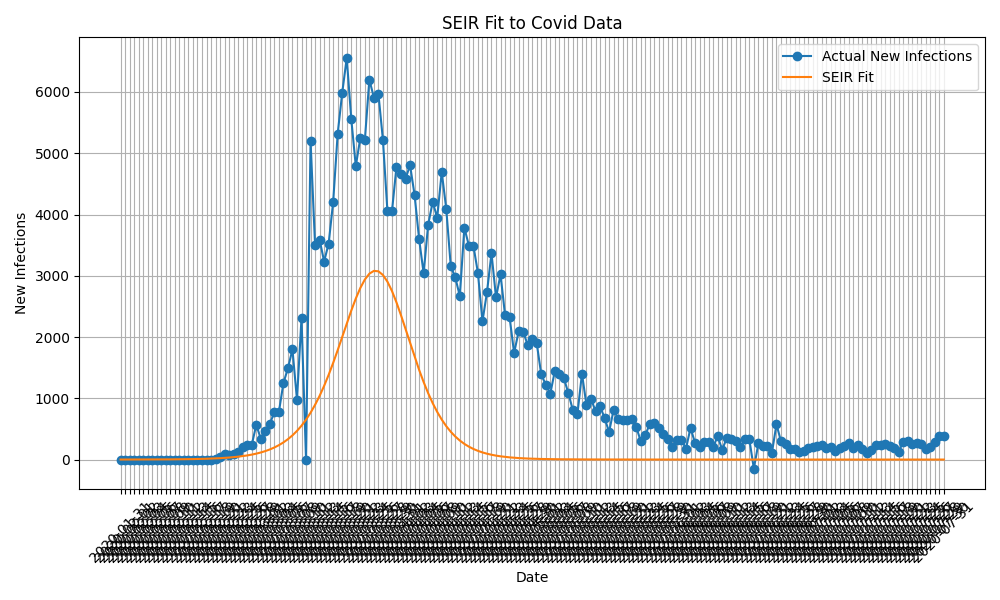
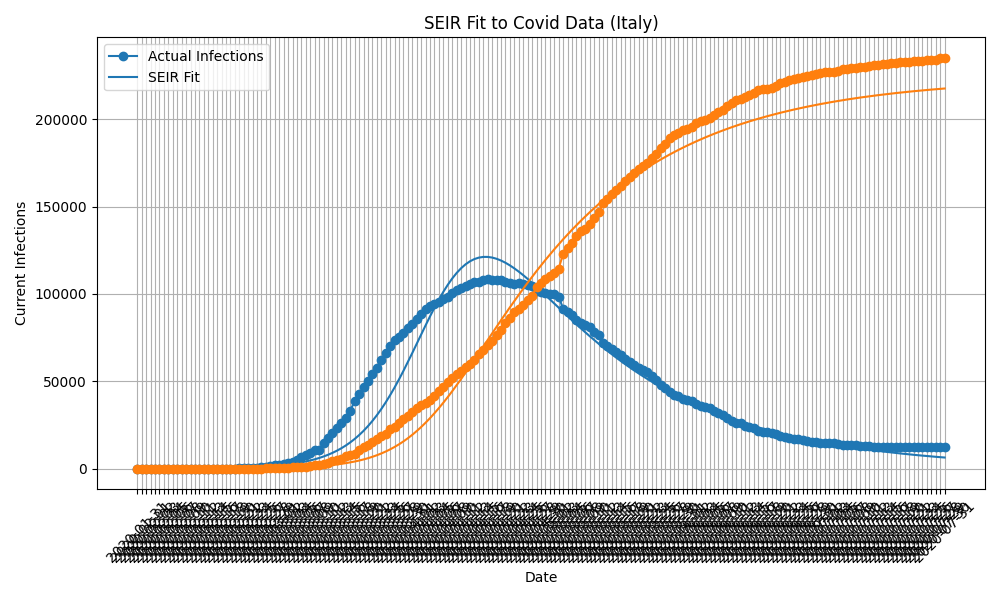
GOOD APPROXIMATION!!!!

diff --git a/seir_simulation.py b/seir_simulation.py
@@ -1,128 +1,78 @@
-from forward_euler import forward_euler_seir
 import numpy as np
-import matplotlib.pyplot as plt
+from forward_euler import forward_euler_seir
+from data.covid_data import import_covid_data, INFECTED_COL, TOTAL_RECOVERIES_COL, DATE_COL
 from scipy.optimize import minimize
+import matplotlib.pyplot as plt
+from forward_euler import evaluate_seir_parameters
 
-from data.influenza_data import import_influenza_data, NEW_INFECTIONS_COL, DATE_COL
+df = import_covid_data()
 
+# TODO: Find a good source for this
+sigma = 0.19
 
-def predicted_weekly_cases(beta, gamma, S_init, E_init, I_init, R_init, sigma, dt, duration_days, timescale, num_times):
-    S, E, I, R = forward_euler_seir(S_init, E_init, I_init, R_init,
-                                     beta, sigma, gamma, dt, duration_days)
-    # Everyone who has ever been infectious by time t is I(t) + R(t)
-    # weekly new infections = jump in (I + R) over each week
-    cumulative = I + R
-    weekly_cumulative = cumulative[::timescale][:num_times + 1]
-    return np.diff(weekly_cumulative)
+N = 60_000_000
+I_init = 0.0001 * N
+E_init = 0.0001 * N
+R_init = 0.0
+S_init = N - I_init - E_init - R_init
 
-call_count = 0
-def loss_function(params, S_init, E_init, I_init, R_init, sigma, dt, duration_days, 
-                  timescale, num_times, new_cases, peak_data, beta_bounds, gamma_bounds):
-    global call_count
-    call_count += 1
+initial_beta = 0.420
+initial_gamma = 0.08
+initial_scale = 0.001
 
-    beta, gamma = params
-    # Biological bounds for beta and gamma:
-    # beta in [0.1, 1.5]  (per-day infection rate)
-    # gamma in [0.14, 0.5]  (infectious period 2 - 7 days, according to the literature)
-    if not (beta_bounds[0] <= beta <= beta_bounds[1] and gamma_bounds[0] <= gamma <= gamma_bounds[1]):
-        return 1e6
-    predicted = predicted_weekly_cases(beta, gamma, S_init, E_init, I_init, R_init, 
-                                       sigma, dt, duration_days, timescale, num_times)
-    L = np.mean(((new_cases - predicted) / peak_data) ** 2)
-    print(f"  [call {call_count}] beta={beta:.4f}, gamma={gamma:.4f}, loss={L:.6f}", flush=True)
-    return L
+dt = 0.1
+duration = len(df)
+print(f"Duration = {duration}")
 
-
-def fit_seir_nelder_mead(df, date_col, observed_col, sigma, initial_guess, S_init, E_init, I_init, R_init, dt, time_scale_factor: int = 7,
-                      beta_bounds=(0.1, 1.5), gamma_bounds=(0.14, 0.5), output_path=None, title=None):
-    df = df.reset_index(drop=True)
-    new_cases_raw = df[observed_col].values
-    baseline = new_cases_raw[0]
-    new_cases = np.clip(new_cases_raw - baseline, 0, None)
-    num_times = len(new_cases)
+def loss_function(params: np.ndarray) -> float:
+    beta, gamma, scale = params
     
-    dt_val = dt
-    duration_days = num_times * time_scale_factor + 1
-    timescale = int(round(time_scale_factor / dt_val))
-    
-    peak_data = new_cases.max()
-    
-    initial_pred = predicted_weekly_cases(initial_guess[0], initial_guess[1], S_init, E_init, I_init, R_init,
-                                           sigma, dt_val, duration_days, timescale, num_times)
-    print(f"Loaded {num_times} rows of data. Baseline: {baseline:.0f}, max excess: {new_cases.max():.2f}", flush=True)
-    print(f"Initial model peak: {initial_pred.max():.0f} (data peak: {peak_data:.0f})", flush=True)
-    print(f"Initial loss at beta={initial_guess[0]}, gamma={initial_guess[1]}: {loss_function(initial_guess, S_init, E_init, I_init, R_init, sigma, dt_val, duration_days, timescale, num_times, new_cases, peak_data, beta_bounds, gamma_bounds):.6f}", flush=True)
-    
-    result = minimize(
-        lambda p: loss_function(p, S_init, E_init, I_init, R_init, sigma, dt_val, duration_days,
-                               timescale, num_times, new_cases, peak_data, beta_bounds, gamma_bounds),
-        x0=initial_guess,
-        method="Nelder-Mead",
-        options={"maxiter": 400, "xatol": 1e-4, "fatol": 1e-5, "disp": True}
+    S, E, I, R = forward_euler_seir(S_init, E_init, I_init, R_init, beta, sigma, gamma, dt, duration) * scale
+    rmse_infections = np.sqrt(np.mean((df[INFECTED_COL] - I[::int(1 / dt)]) ** 2))
+    rmse_recoveries = np.sqrt(np.mean((df[TOTAL_RECOVERIES_COL] - R[::int(1 / dt)]) ** 2))
+
+    loss = rmse_infections + rmse_recoveries
+    print(f"loss={loss:.4f}, beta={beta}, gamma={gamma}, scale={scale}")
+    return loss
+
+# The optimization result represented as a OptimizeResult object.
+# Important attributes are:
+# x the solution array,
+# success a Boolean flag indicating if the optimizer exited successfully and message which describes the cause of the termination.
+# See OptimizeResult for a description of other attributes.
+result = minimize(
+    loss_function,
+    x0=[initial_beta, initial_gamma, initial_scale],
+    method="Nelder-Mead",
+    options={"maxiter": 400, "xatol": 1e-4, "fatol": 1e-5, "disp": True},
+    bounds=(
+        (0.1, 1.0),
+        (0.0, 0.1),
+        (0.0, 0.1),
     )
-    
-    beta_fit, gamma_fit = result.x
-    print(f"Fitted beta:  {beta_fit}", flush=True)
-    print(f"Fitted gamma: {gamma_fit}", flush=True)
-    print(f"R_0:          {beta_fit / gamma_fit}", flush=True)
-    
-    predicted = predicted_weekly_cases(beta_fit, gamma_fit, S_init, E_init, I_init, R_init,
-                                       sigma, dt_val, duration_days, timescale, num_times)
-    predicted_with_baseline = predicted + baseline
-    
-    plt.figure(figsize=(10, 6))
-    plt.plot(df[date_col], new_cases_raw, color="C0", marker="o", linestyle="-")
-    plt.plot(df[date_col], predicted_with_baseline, color="C1", marker="", linestyle="-")
-    plt.legend([f"Actual {observed_col}", "SEIR Fit"])
-    plt.title(title or f"SEIR Fit to {observed_col}")
-    plt.xlabel("Date")
-    plt.ylabel(observed_col)
-    plt.xticks(rotation=45)
-    plt.tight_layout()
-    plt.grid()
-    
-    if output_path:
-        plt.savefig(output_path)
-        print(f"Saved {output_path}", flush=True)
+)
 
+beta, gamma, old_scale = result.x
 
-if __name__ == "__main__":
-    # Influenza incubation period ~ 2 days (according to the literature),
-    #  so sigma = 1/2
-    sigma = 1 / 2
-    
-    # Initial guess for beta, gamma is taken from the SIR result from part 1
-    initial_guess = (0.420, 0.265)
-    
-    # Now we are picking one full flu season in HHS Region 4 (Oct 2018 - May 2019)
-    print("Loading influenza data...", flush=True)
-    df = import_influenza_data(region=4, start_wk=40, start_yr=2018, end_wk=20, end_yr=2019)
-    
-    # Compute N from peak data (for flu-like outbreak, peak ~ 0.15 * N, so N ~ 10 * peak)
-    new_cases_raw = df[NEW_INFECTIONS_COL].values
-    baseline = new_cases_raw[0]
-    peak_data = np.clip(new_cases_raw - baseline, 0, None).max()
-    N = 10 * peak_data
-    print(f"Data peak (excess): {peak_data:.0f}, chosen N: {N:.0f}", flush=True)
-    
-    # Initial conditions: epidemic just starting (small seed of infections)
-    I_init = 100.0
-    E_init = 100.0
-    R_init = 0.0
-    S_init = N - I_init - E_init - R_init
-    
-    fit_seir_nelder_mead(
-        df=df,
-        date_col=DATE_COL,
-        observed_col=NEW_INFECTIONS_COL,
-        sigma=sigma,
-        initial_guess=initial_guess,
-        S_init=S_init,
-        E_init=E_init,
-        I_init=I_init,
-        R_init=R_init,
-        dt=0.5,
-        output_path="diagrams/seir_fit_influenza.png",
-        title="SEIR Fit to Influenza Data (2018-2019, Region 4)"
-    )
+S, E, I, R = forward_euler_seir(S_init, E_init, I_init, R_init, beta, sigma, gamma, dt, duration)
+A, I_for_scale = df[INFECTED_COL], I[::int(1 / dt)]
+scale = np.dot(A, I_for_scale) / (np.linalg.norm(I_for_scale) ** 2)
+
+print(old_scale, scale)
+
+plt.figure(figsize=(10, 6))
+plt.plot(df[DATE_COL], df[INFECTED_COL], color="C0", marker="o", linestyle="-")
+plt.plot(df[DATE_COL], I[::int(1 / dt)] * scale, color="C0", marker="", linestyle="-")
+plt.plot(df[DATE_COL], df[TOTAL_RECOVERIES_COL], color="C1", marker="o", linestyle="-")
+plt.plot(df[DATE_COL], R[::int(1 / dt)] * scale, color="C1", marker="", linestyle="-")
+plt.legend(["Actual Infections", "SEIR Fit"])
+plt.title("SEIR Fit to Covid Data (Italy)")
+plt.xlabel("Date")
+plt.ylabel("Current Infections")
+plt.xticks(rotation=45)
+plt.tight_layout()
+plt.grid()
+plt.savefig("diagrams/seir_fit_covid.png")
+print("Saved diagrams/seir_fit_covid.png", flush=True)
+
+evaluate_seir_parameters(df, S_init, I_init, 0, E_init, beta, gamma, sigma, 0.1)